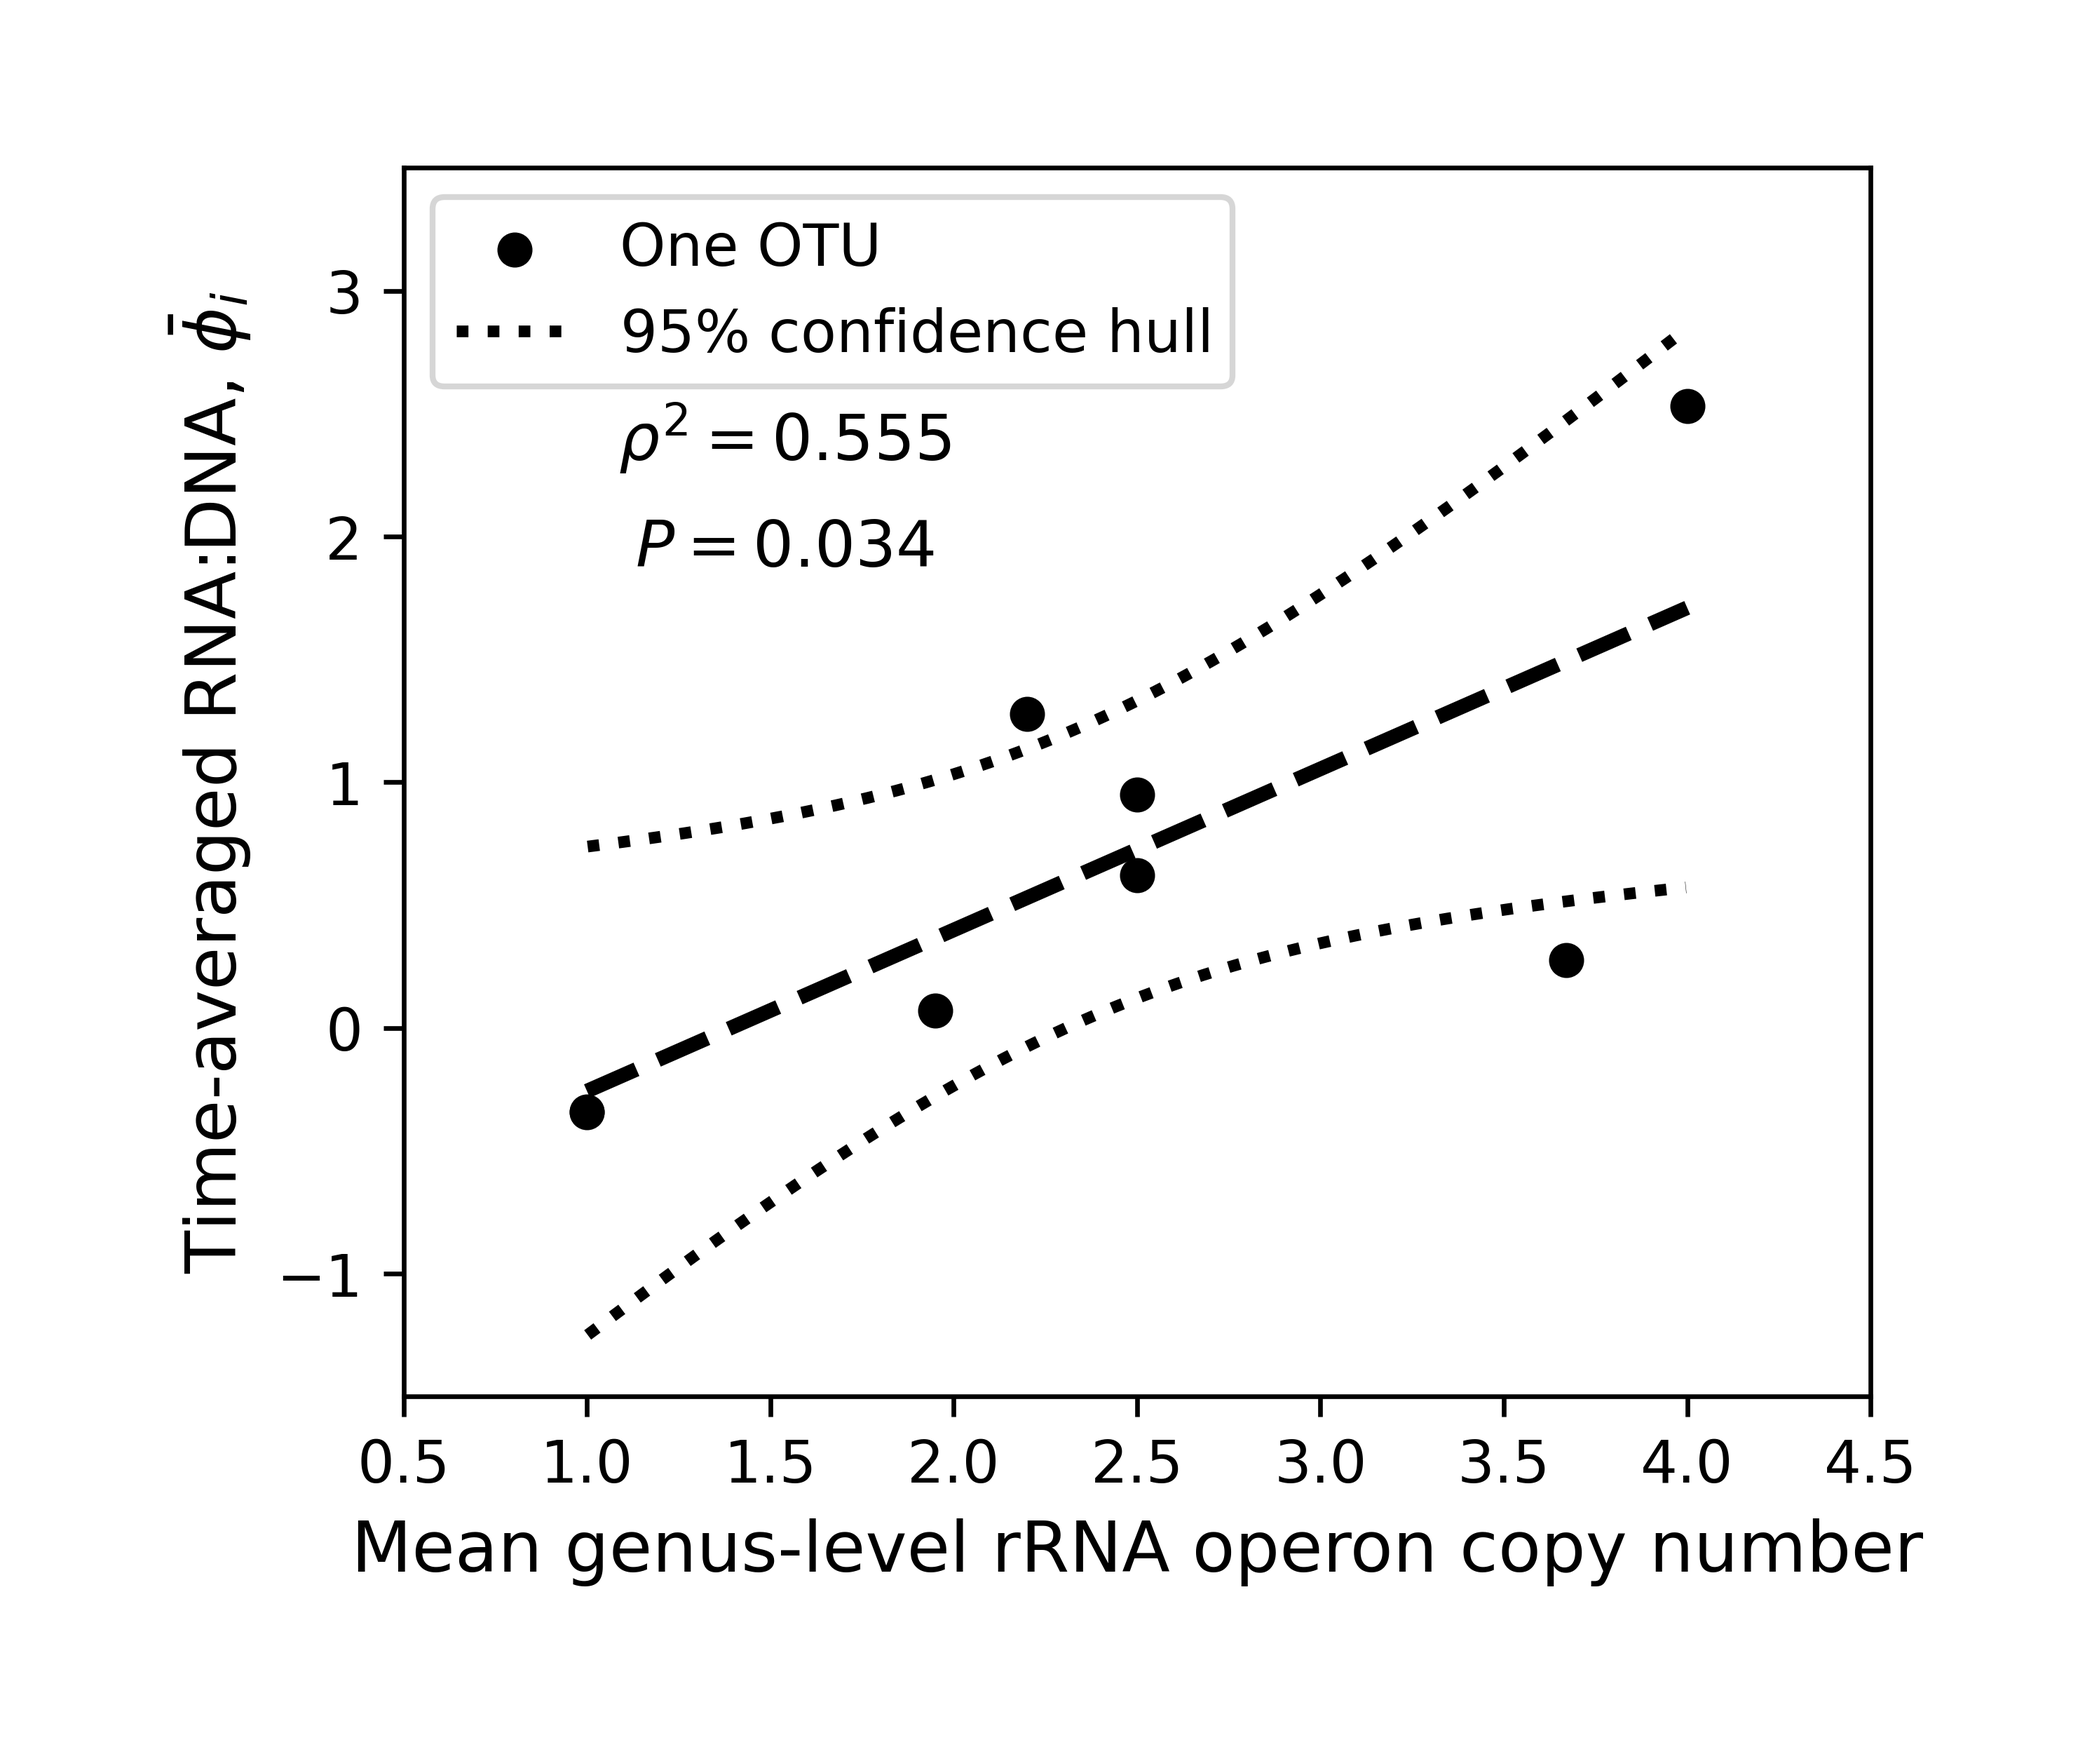
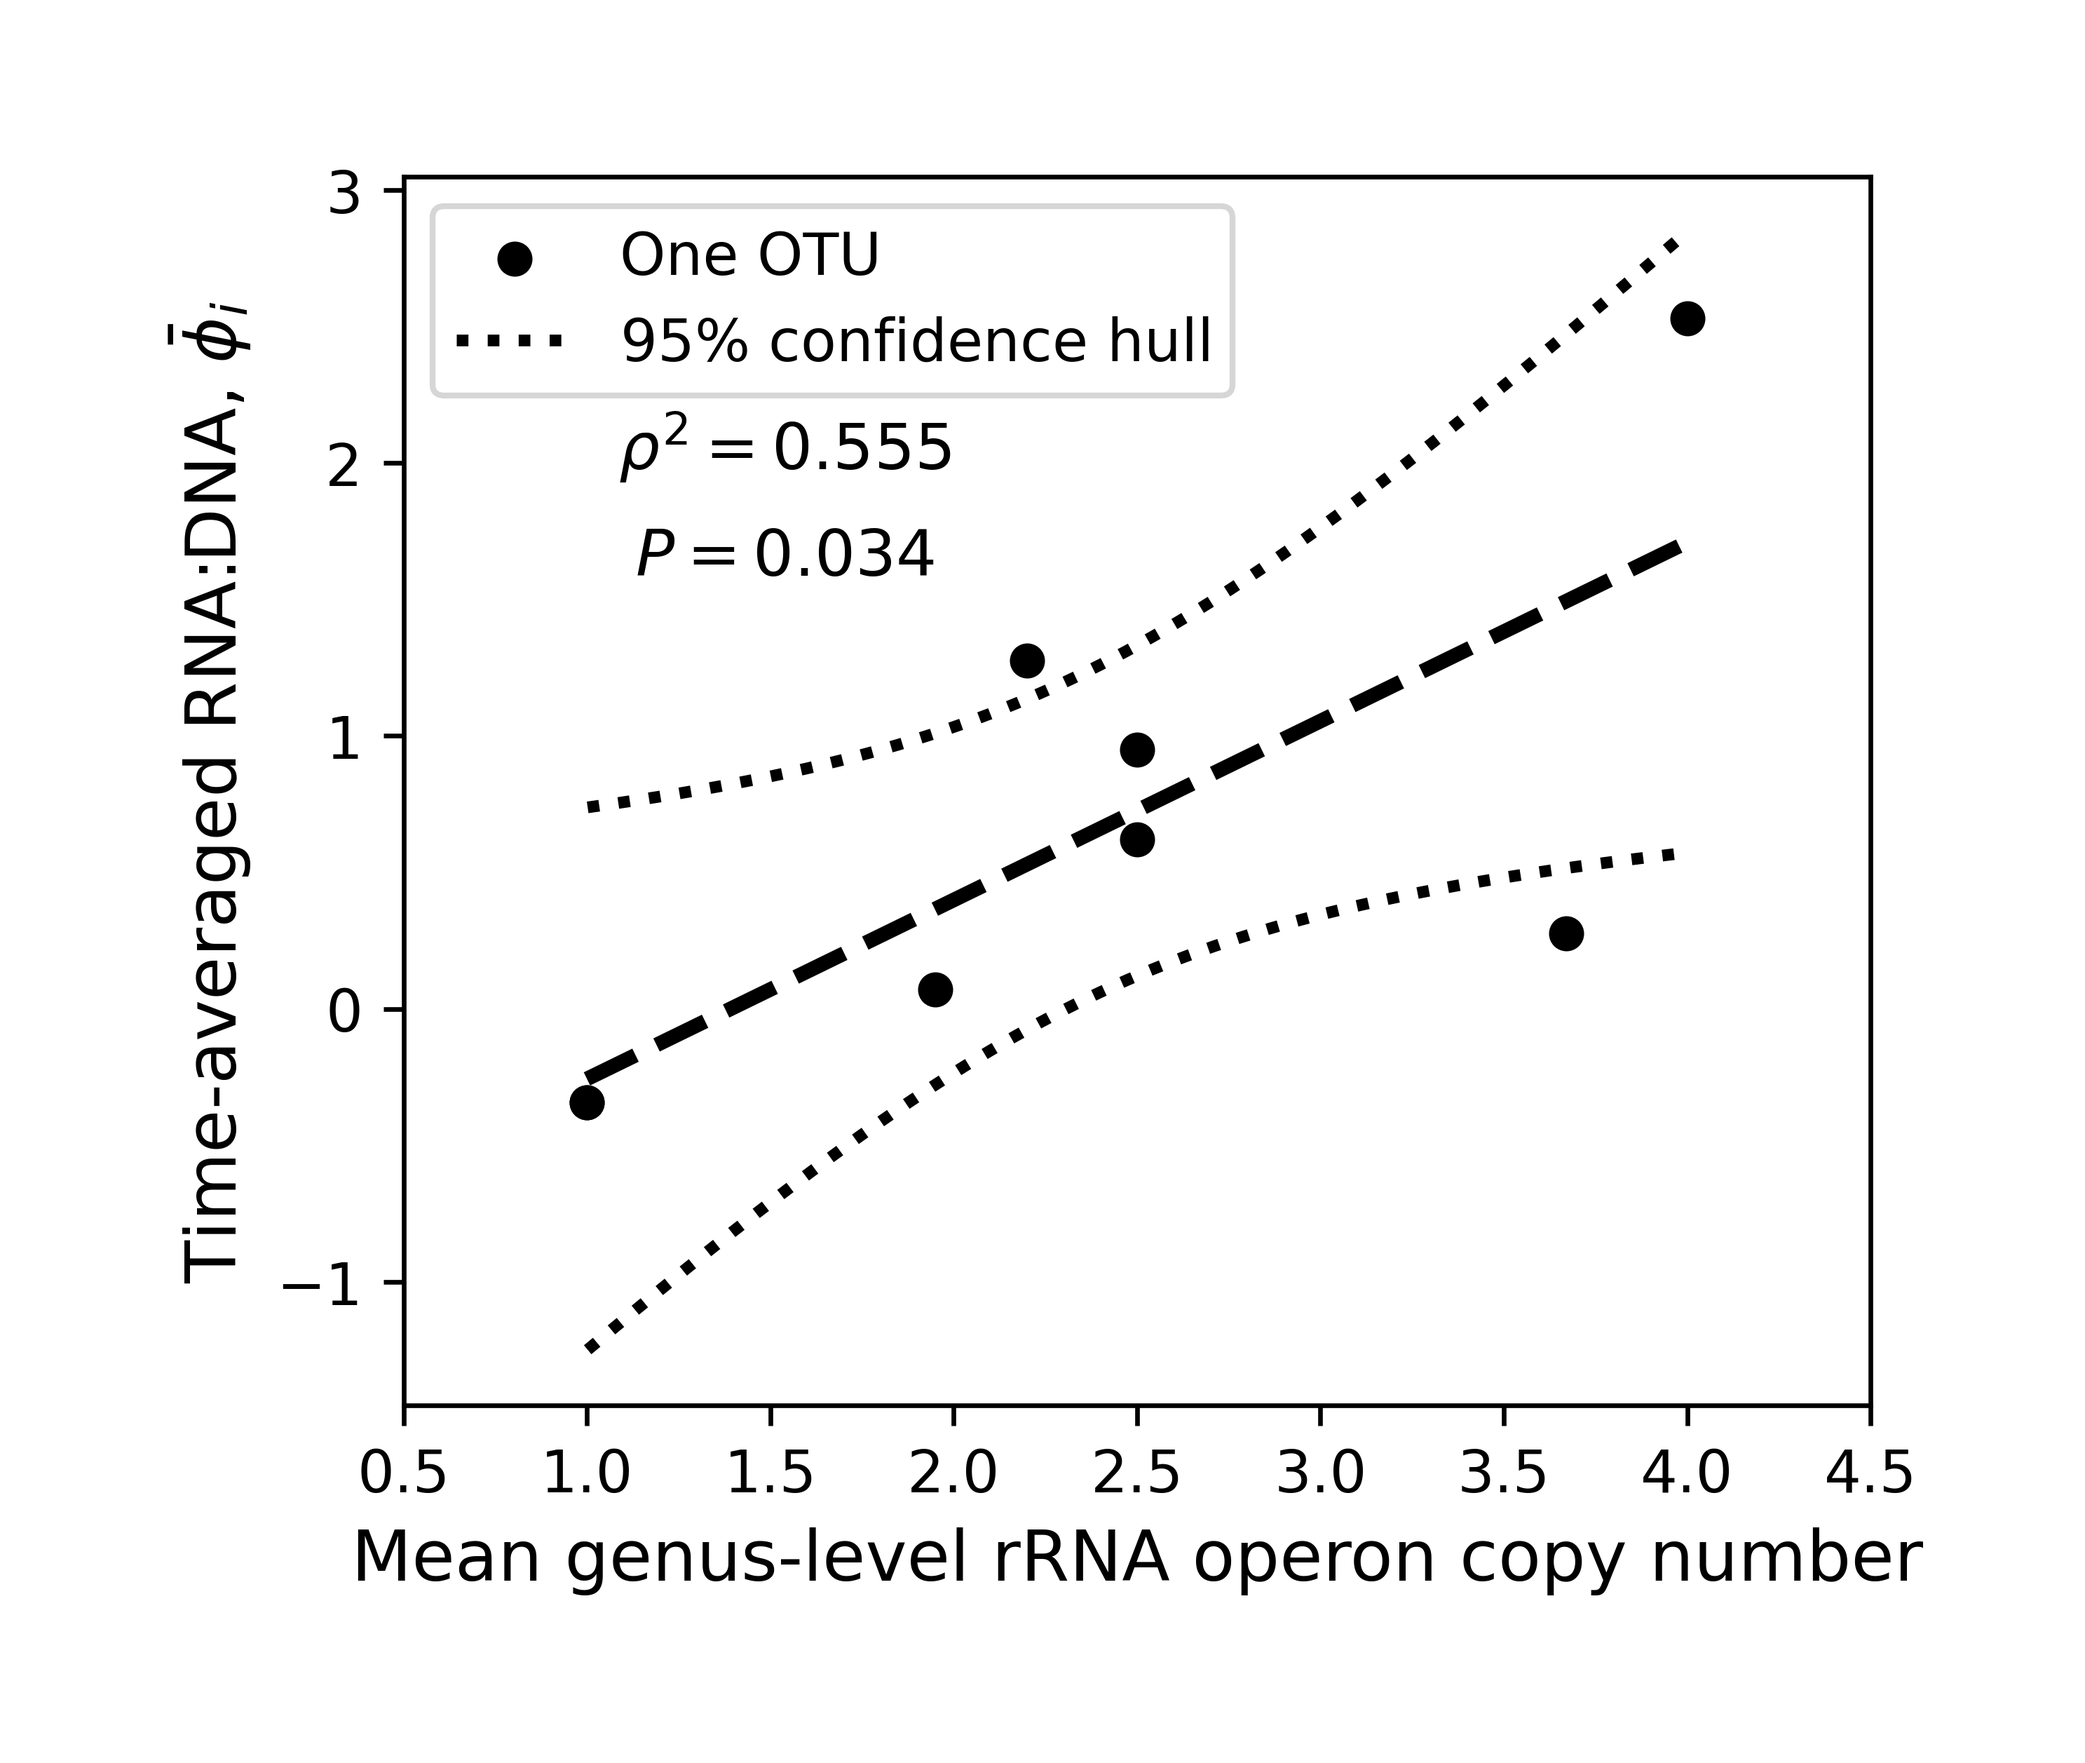
logfold autocorr

diff --git a/scripts/plot_copy_number_vs_rna_dna_ratio.py b/scripts/plot_copy_number_vs_rna_dna_ratio.py
@@ -19,6 +19,10 @@ param_dict = pickle.load(open(sine_parameter_utils.param_otu_mle_dict_path, "rb"
 
 #otu_labels = param_dict[otu_labels'']
 
+use_carrying_capacity = True
+use_carrying_capacity_fig_name_dict = {True:'_k', False:''}
+use_carrying_capacity_y_label_dict = {True:"Difference in RNA and DNA\nconstants, " + r'$\mathrm{ln} \, K_{\mathrm{RNA}}^{(0)} - \mathrm{ln} \, K_{\mathrm{DNA}}^{(0)}$', False:"Time-averaged RNA:DNA, " + r'$\bar{\phi}_{i}$'}
+
 
 genus_param = [taxonomy_dict[k][taxonomic_level] for k in param_dict['otu_labels']]
 
@@ -37,12 +41,24 @@ for g_idx, g in enumerate(genus_param):
 to_keep_idx = numpy.asarray(to_keep_idx)
 mean_ratio_all = []
 for i_idx in to_keep_idx:
+    
+    param_mean_mle_rna_log = numpy.log(param_dict['param_mean_mle']['RNA'][i_idx])
+    param_mean_mle_dna_log = numpy.log(param_dict['param_mean_mle']['DNA'][i_idx])
 
     clr_rna = numpy.asarray(param_dict['data']['clr_afd']['RNA'][i_idx])
     clr_dna = numpy.asarray(param_dict['data']['clr_afd']['DNA'][i_idx])
 
-    mean_ratio = numpy.mean(clr_rna - clr_dna)
-    mean_ratio_all.append(mean_ratio)
+    #print(param_mean_mle_rna, param_mean_mle_dna)
+    #print(numpy.mean(clr_rna))
+
+    if use_carrying_capacity == True:
+        diff = param_mean_mle_rna_log - param_mean_mle_dna_log
+    else:
+        diff = numpy.mean(clr_rna - clr_dna)
+
+    mean_ratio_all.append(diff)
+
+
 
 
 fig = plt.figure(figsize = (4.5, 4)) #
@@ -52,15 +68,10 @@ gs = gridspec.GridSpec(nrows=1, ncols=1)
 ax = fig.add_subplot(gs[0, 0])
 
 
-print(mean_ratio_all)
-
 
 ax.scatter(rrna_copy_number, mean_ratio_all, s=25, alpha=1, color='k', zorder=2, label='One OTU')
 
 slope, intercept, r_value, p_value, std_err = stats.linregress(rrna_copy_number, mean_ratio_all)
-
-
-
 
 
 x_range_ =  numpy.linspace(min(rrna_copy_number), max(rrna_copy_number), 10000)
@@ -75,7 +86,8 @@ ax.plot(x_range_ci[idx_to_plot], ucb[idx_to_plot], color='k', linestyle=':', lin
 
 
 ax.set_xlabel("Mean genus-level rRNA operon copy number", fontsize=12)
-ax.set_ylabel("Time-averaged RNA:DNA, " + r'$\bar{\phi}_{i}$', fontsize=12)
+#ax.set_ylabel("Time-averaged RNA:DNA, " + r'$\bar{\phi}_{i}$', fontsize=12)
+ax.set_ylabel(use_carrying_capacity_y_label_dict[use_carrying_capacity], fontsize=12)
 
 
 ax.text(0.26, 0.78, r'$\rho^{2} = $' + str(round(r_value**2, 3)), fontsize=11, ha='center', va='center', transform=ax.transAxes)
@@ -83,13 +95,13 @@ ax.text(0.26, 0.69, r'$P = $' + str(round(p_value, 3)), fontsize=11, ha='center'
  
 
 ax.set_xlim([0.5, 4.5])
-ax.set_ylim([-1.5, 3.5])
+#ax.set_ylim([-1.5, 3.5])
 
 
 ax.legend(loc='upper left', fontsize=10)
 
 fig.subplots_adjust(hspace=0.4, wspace=0.3)
-fig_name = "%scopy_number_vs_rna_dna_ratio.png" % config.analysis_directory
+fig_name = "%scopy_number_vs_rna_dna_ratio%s.png" % (config.analysis_directory, use_carrying_capacity_fig_name_dict[use_carrying_capacity])
 fig.savefig(fig_name, format='png', bbox_inches = "tight", pad_inches = 0.4, dpi = 600)
 plt.close()
 

diff --git a/scripts/plot_autocorr_logfold_otu.py b/scripts/plot_autocorr_logfold_otu.py
@@ -1,0 +1,79 @@
+import config
+import sys
+import argparse
+import copy
+import numpy
+import utils
+import matplotlib.pyplot as plt
+from matplotlib import cm, colors
+from scipy import stats
+# numdifftools also installed
+import pickle
+
+import sine_parameter_utils
+
+
+
+param_dict = pickle.load(open(sine_parameter_utils.param_otu_mle_dict_path, "rb"))
+#autocorr_dict = pickle.load(open(autocorrelation_dict_path, "rb"))
+
+#otu_labels = list(autocorr_dict['otu'].keys())
+#otu_labels.sort()
+
+
+#delta_t_env = autocorr_dict['env']['water_temp']['delta_t_env']
+#autocorr_obs_env = autocorr_dict['env']['water_temp']['autocorr_obs_env']
+
+fig = plt.figure(figsize = (20, 20))
+fig.subplots_adjust(bottom= 0.15)
+
+s_by_s, otu_labels, samples = utils.load_count_data()
+
+idx_all = list(range(len(param_dict['data']['clr_afd']['RNA'])))
+chunk_all = [idx_all[x:x+5] for x in range(0, len(idx_all), 5)]
+
+for chunk_idx, chunk in enumerate(chunk_all):
+
+    for c_idx, c in enumerate(chunk):
+
+        ax = plt.subplot2grid((len(chunk_all), len(chunk_all[0])), (chunk_idx, c_idx))
+
+        for data_type in ['RNA', 'DNA']:
+
+            afd_i = numpy.asarray(param_dict['data']['clr_afd'][data_type][c])
+            days_i = numpy.asarray(param_dict['data']['days'][data_type][c])
+
+            logfold_i = (afd_i[1:] - afd_i[:-1]) / (days_i[1:] - days_i[:-1])
+            days_logfold_i = days_i[:-1]
+
+            otu_label_i = otu_labels[c]
+
+            rho_all, delta_t_all, n_all = utils.calculate_autocorrelation(logfold_i, days_logfold_i, min_n_obs=10)
+
+            #if otu_label_i == 'Otu000001':
+            #    print(days_i)
+            #    print(n_all)
+
+            print(delta_t_all[0], rho_all[0])
+
+            ax.scatter(delta_t_all, rho_all, s=7, alpha=0.7, zorder=2, c=utils.dna_rna_color_dict[data_type], label='Observed')
+            #ax.plot(delta_t_all, rho_all, ls='-', lw=3, zorder=2, c=utils.dna_rna_color_dict[data_type], label='Predicted')
+            ax.plot(delta_t_all, rho_all, ls='-', lw=1, alpha=0.6, zorder=1, c=utils.dna_rna_color_dict[data_type], label='Predicted')
+
+            ax.set_xlabel("Time difference (days), " + r'$\Delta t$', fontsize = 10)
+            ax.set_ylabel("Autocorr. of log-fold growth", fontsize = 10)
+            ax.set_title(otu_labels[c], fontsize=11)
+
+            #if (chunk_idx==0) and (c_idx==0):
+            #    ax.legend(loc='upper right', fontsize=8)
+
+
+
+        ax.axhline(y=0, ls=':', lw=2, c='k', zorder=3, label='Data')
+
+
+
+fig.subplots_adjust(hspace=0.35, wspace=0.40)
+fig_name = "%sautocorr_logfold_otu.png" % (config.analysis_directory)
+fig.savefig(fig_name, format='png', bbox_inches = "tight", pad_inches = 0.4, dpi = 600)
+plt.close()

diff --git a/scripts/plot_cpsd_lag.py b/scripts/plot_cpsd_lag.py
@@ -14,13 +14,27 @@ import sine_parameter_utils
 import tsdata_to_cpsd
 
 
-min_coh_xy = 0.3
-n_surr=1000
-
-
 param_dict = pickle.load(open(sine_parameter_utils.param_otu_mle_dict_path, "rb"))
 otu_labels = param_dict['otu_labels']
 otu_labels.sort()
+
+# channels
+#n = len(param_dict['data']['clr_afd']['DNA'][0])
+n = 2
+# frequency resolution
+fres = 128
+# MATLAB’s h = fres + 1              
+h = fres + 1 
+fs=1.0
+nfft = 2*(h-1)
+# window length
+window = int(len(param_dict['data']['clr_afd']['DNA'][0]) / 2)
+noverlap = 30
+min_coh_xy = 0.3
+n_surr=1000
+
+# target oscillation frequency (approx 0.0195 cycles/week) is at 5th frequency bin.
+
 
 
 fig = plt.figure(figsize = (20, 20))
@@ -45,17 +59,7 @@ for chunk_idx, chunk in enumerate(chunk_all):
         rna_dna = numpy.column_stack((afd_rna, afd_dna))
 
         # channels
-        n = rna_dna.shape[1]
-
-        # frequency resolution
-        fres = 128
-        # MATLAB’s h = fres + 1              
-        h = fres + 1 
-        fs=1.0
-        nfft = 2*(h-1)
-        # window length
-        window = int(rna_dna.shape[0] / 2)
-        noverlap = 30
+        #n = rna_dna.shape[1]
 
         S = tsdata_to_cpsd.cpsd_welch_matlab(rna_dna, n=n, h=h, nfft=nfft, window=window, noverlap=noverlap, fs=1.0)
         S_xy = S[0,1,:]
@@ -75,9 +79,14 @@ for chunk_idx, chunk in enumerate(chunk_all):
         mask = coh_xy > min_coh_xy
         avg_lag = numpy.nanmean(time_lag[mask])
 
-        print(avg_lag)
+        mask_scaled = (~numpy.isnan(time_lag))*mask        
+        avg_lag_scaled_coh_xy = numpy.real( sum((time_lag[mask_scaled]) * (coh_xy[mask_scaled])) / sum(coh_xy[mask_scaled]))
 
-        time_lags_null = tsdata_to_cpsd.lag_null_distribution(afd_rna, afd_dna, S.shape, freqs, nfft=nfft, window=window, noverlap=noverlap, fs=fs, n_surr=n_surr, min_coh_xy=min_coh_xy, seed=123456789)
+    
+        time_lags_null, scaled_time_lags_null = tsdata_to_cpsd.lag_null_distribution(afd_rna, afd_dna, S.shape, freqs, nfft=nfft, window=window, noverlap=noverlap, fs=fs, n_surr=n_surr, min_coh_xy=min_coh_xy, seed=123456789)
+
+        #print(scaled_time_lags_null[:15])
+
 
         ax.hist(time_lags_null, bins=20, density=True, histtype='step', alpha=1, lw=3, color='k', zorder=1, label='Null')
 

diff --git a/scripts/tsdata_to_cpsd.py b/scripts/tsdata_to_cpsd.py
@@ -419,6 +419,7 @@ def lag_null_distribution(x, y, S_shape, freqs, nfft, window, noverlap, fs, n_su
     
     n_samples = len(x)
     time_lags = []
+    scaled_time_lags = []
 
     X_fft = numpy.fft.fft(x)
     
@@ -431,7 +432,7 @@ def lag_null_distribution(x, y, S_shape, freqs, nfft, window, noverlap, fs, n_su
         phases[-(n_samples//2)+1:] = -random_phases[::-1]  # Hermitian symmetry
         x_surr = numpy.fft.ifft(amp * numpy.exp(1j * phases)).real
 
-        # Compute CPSD (can reuse your cpsd_welch_matlab function)
+        # Compute null CPSD
         S_surr = cpsd_welch_matlab(numpy.column_stack([x_surr, y]), n=2, h=S_shape[2], nfft=nfft, window=window, noverlap=noverlap, fs=fs)
         S_xy_surr = S_surr[0,1,:]
         
@@ -446,9 +447,16 @@ def lag_null_distribution(x, y, S_shape, freqs, nfft, window, noverlap, fs, n_su
         mask = coh_surr > 0.3
         avg_lag_surr = numpy.nanmean(time_lag_surr[mask])
         #avg_lag_surr = numpy.nanmean(time_lag_surr)
-        time_lags.append(avg_lag_surr)
 
-    return numpy.array(time_lags)
+        mask_scaled = (~numpy.isnan(time_lag_surr))*mask  
+        avg_lag_scaled_coh_xy = numpy.real(sum((time_lag_surr[mask_scaled]) * (coh_surr[mask_scaled])) / sum(coh_surr[mask_scaled]))
+
+        time_lags.append(avg_lag_surr)
+        scaled_time_lags.append(avg_lag_scaled_coh_xy)
+
+
+
+    return numpy.array(time_lags), numpy.asarray(scaled_time_lags)
 
 
 

diff --git a/scripts/utils.py b/scripts/utils.py
@@ -1137,6 +1137,7 @@ def calculate_autocorrelation(array, time, min_n_obs=10):
 
     rho_all = []
     delta_t_all = []
+    n_all = []
 
     autocorr_dict = {}
     for t in range(1, len(array)-min_n_obs+1):
@@ -1166,12 +1167,15 @@ def calculate_autocorrelation(array, time, min_n_obs=10):
         delta_t_all.append(delta_t_i)
         rho_all.append(rho_i)
 
+        n_all.append(len(autocorr_dict[delta_t_i]['array_t']))
+
     
     rho_all = numpy.asarray(rho_all)
     delta_t_all = numpy.asarray(delta_t_all)
+    n_all = numpy.asarray(n_all)
 
        
-    return rho_all, delta_t_all
+    return rho_all, delta_t_all, n_all
 
 
 

diff --git a/scripts/plot_autocorrelation_otu.py b/scripts/plot_autocorrelation_otu.py
@@ -77,6 +77,7 @@ def make_autocorrelation_dict():
             days_i = numpy.asarray(days_i)
             
             afd_i_rescaled = (afd_i - param_mean_leastsq_i)/amp_leastsq_i
+
             autocorr_obs_i, delta_t_i = utils.calculate_autocorrelation(afd_i_rescaled, days_i)
 
             delta_t_inter = numpy.intersect1d(delta_t_i, delta_t_env)
